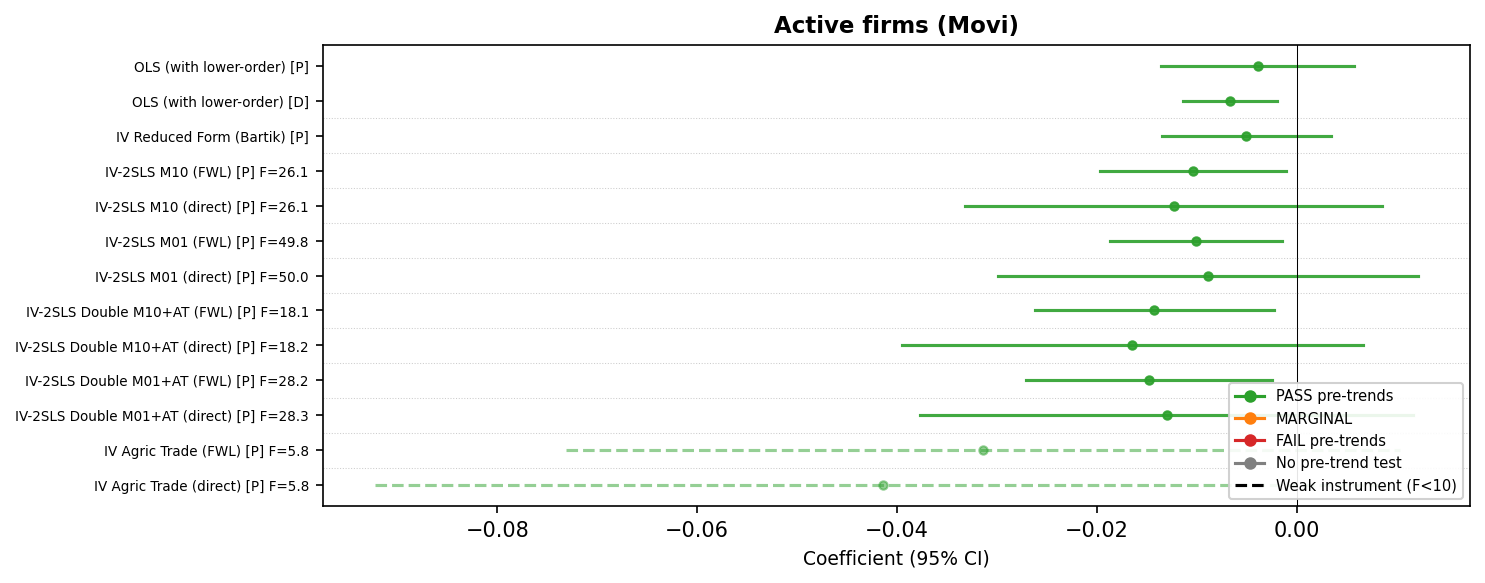
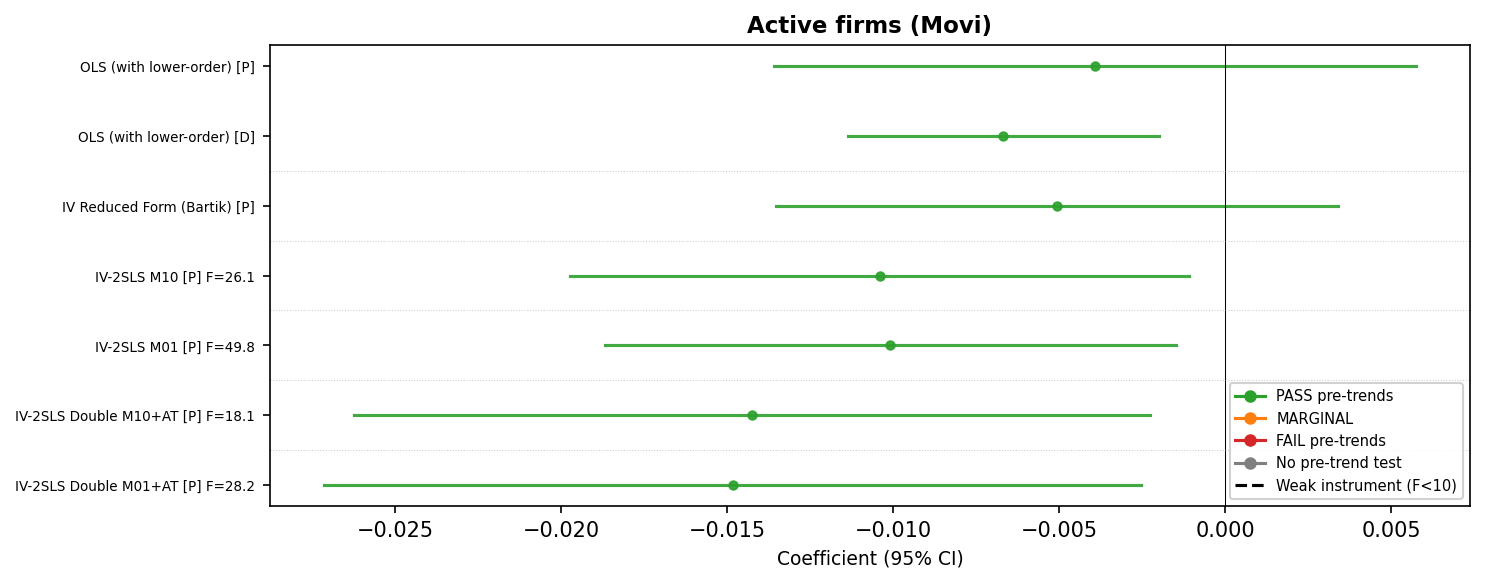
Remove IV-agric-trade and raw/direct methods from province
- Removed IV-agric-trade (same as commune)
- Removed all "raw" (direct 2SLS) variants - redundant with FWL versions
- Cleaner province method labels and info box

diff --git a/province.html b/province.html
@@ -60,11 +60,10 @@ footer { margin-top: 3rem; padding-top: 1rem; border-top: 1px solid #eee; color:
 <div class="info-box">
     <h4>Province Method Labels</h4>
     <ul>
-      <li><strong>FWL</strong> = Frisch-Waugh-Lovell partialing (preferred, correct SEs with demeaned data)</li>
-      <li><strong>direct</strong> = Direct 2SLS without FWL (robustness check)</li>
       <li><strong>M10</strong> = Migration Bartik from 2010 RCS &nbsp;|&nbsp; <strong>M01</strong> = from 2001 Census</li>
       <li><strong>Double</strong> = Migration + Agricultural Trade Bartik (two instruments)</li>
       <li><strong>RF</strong> = Reduced Form (Bartik directly on outcome, no 2SLS)</li>
+      <li>[P] = Pooled post &nbsp;|&nbsp; [D] = Detrended (linear post-trend)</li>
     </ul>
   </div>
 <div class="info-box">
